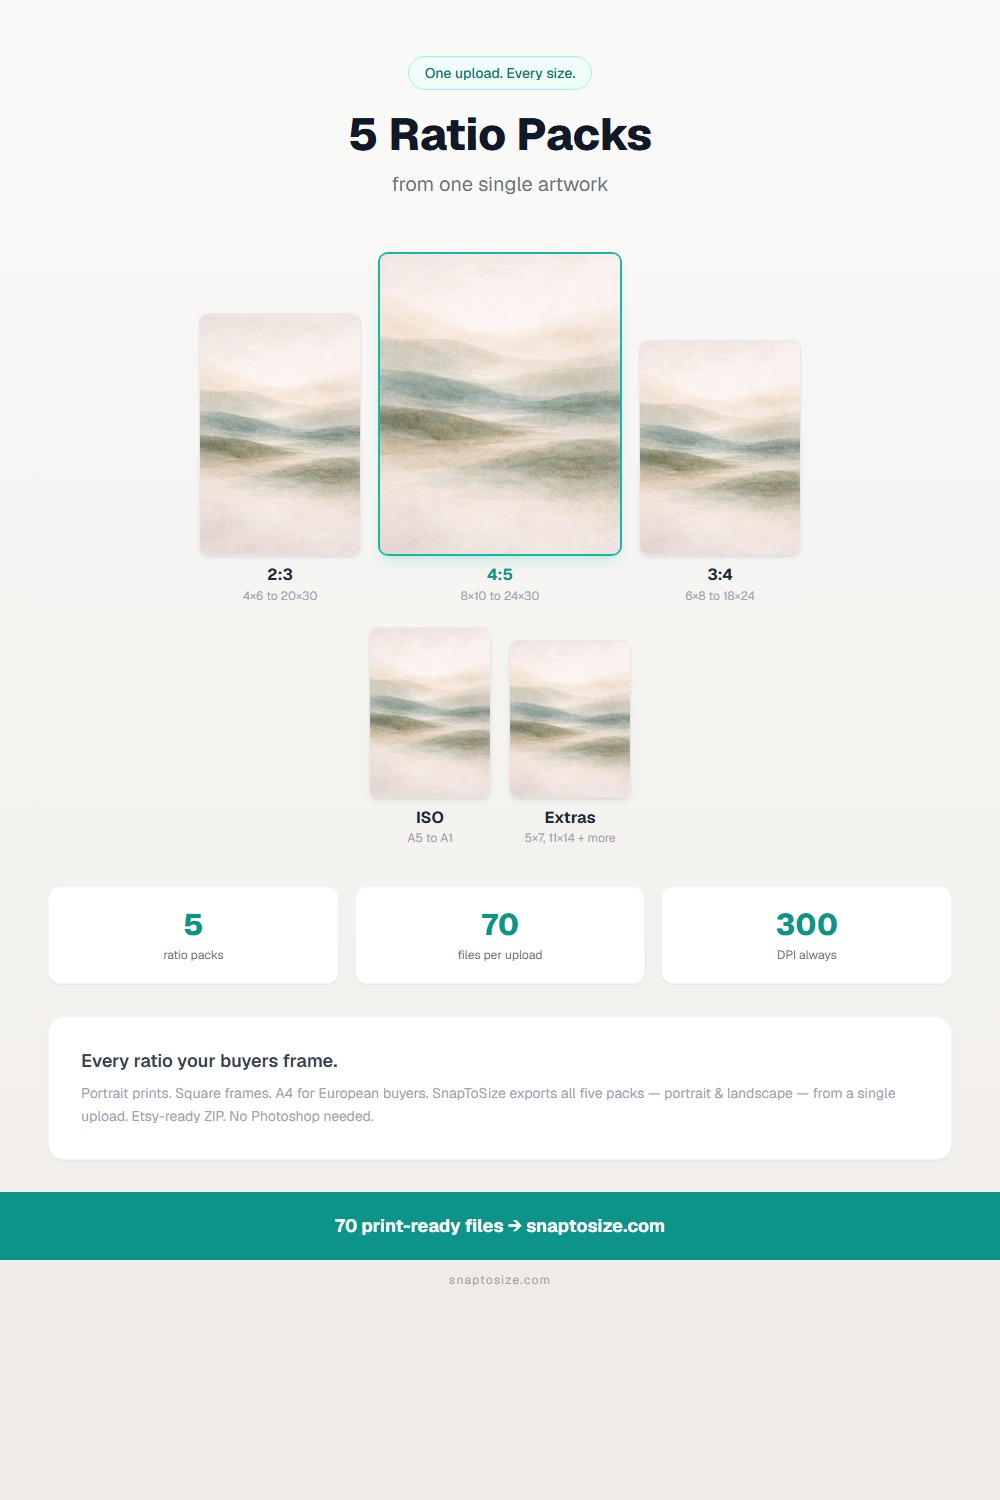
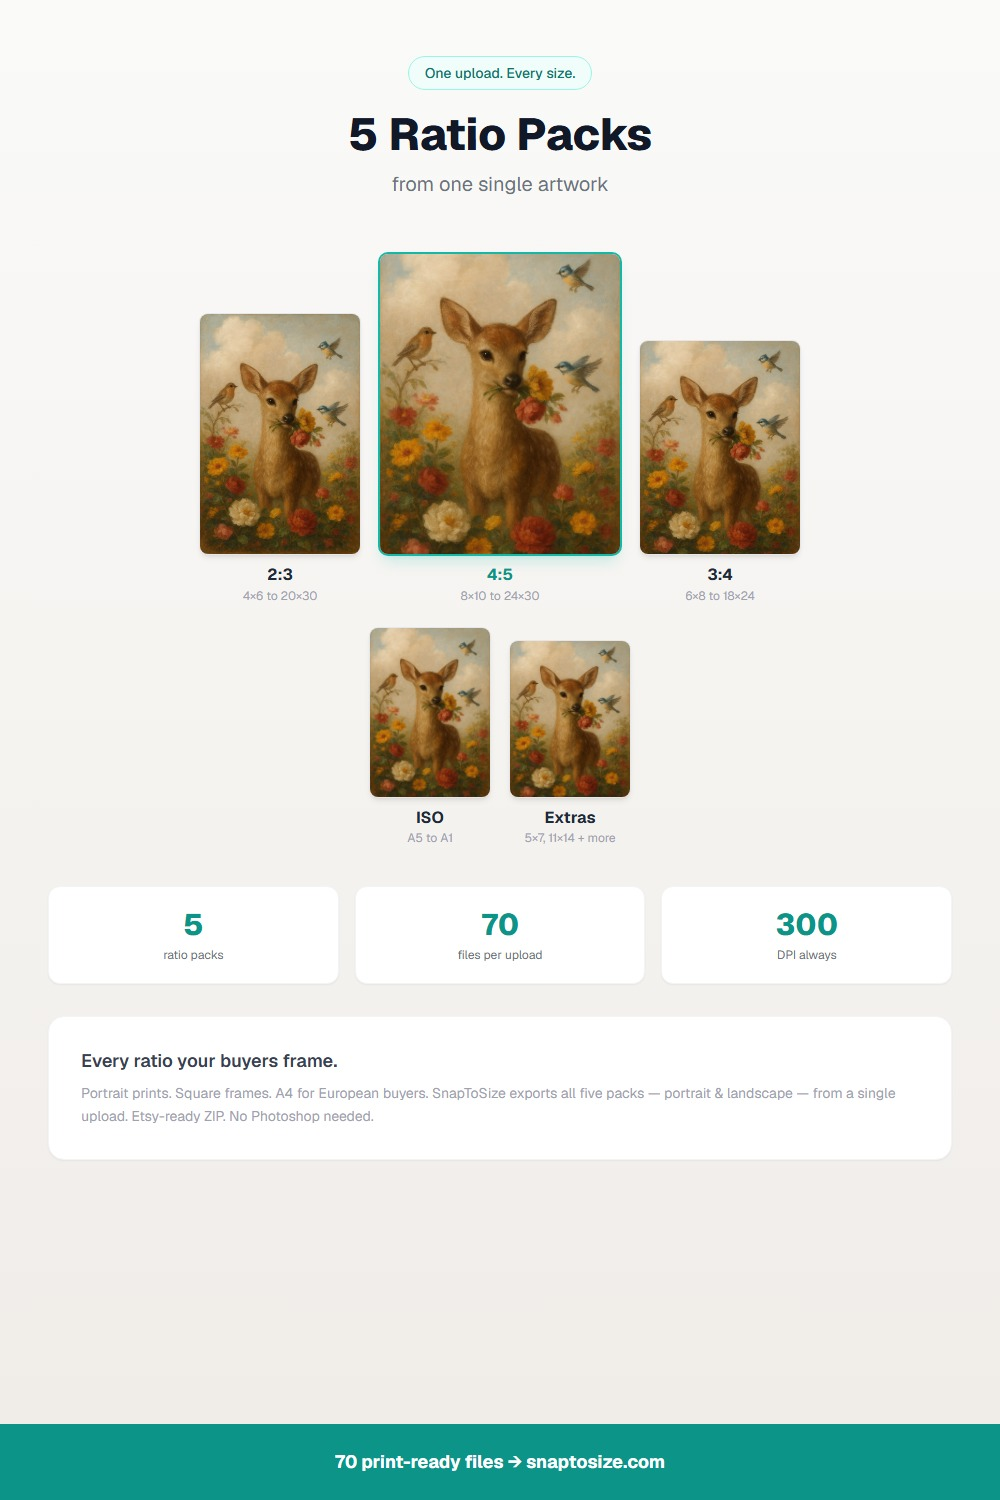
social: W23-P24 BrightPackShowcase — Deer artwork, CTA pinned to bottom

diff --git a/app-next/app/social-slides/_components/BrightPackShowcase.tsx b/app-next/app/social-slides/_components/BrightPackShowcase.tsx
@@ -63,7 +63,7 @@ function FrameCard({
         style={{ width, height }}
       >
         <Image
-          src="/assets/listings/minimalist_abstract/Minimalist_Abstract.jpg"
+          src="/assets/listings/deer/Deer.jpg"
           alt="Artwork preview"
           fill
           className="object-cover"
@@ -182,19 +182,11 @@ export default function BrightPackShowcase({ ratio }: BrightPackShowcaseProps) {
         </p>
       </div>
 
-      {/* Bottom CTA bar */}
-      <div className="bg-teal-600 py-5 text-center">
+      {/* Bottom CTA bar — mt-auto pins it to the bottom */}
+      <div className="mt-auto bg-teal-600 py-6 text-center">
         <div className={`${s.cta} text-white font-bold`}>
           70 print-ready files → snaptosize.com
         </div>
-      </div>
-
-      {/* Footer */}
-      <div
-        className="py-3 text-center text-xs text-gray-400 tracking-widest"
-        style={{ background: "#EFECE8" }}
-      >
-        snaptosize.com
       </div>
     </section>
   );